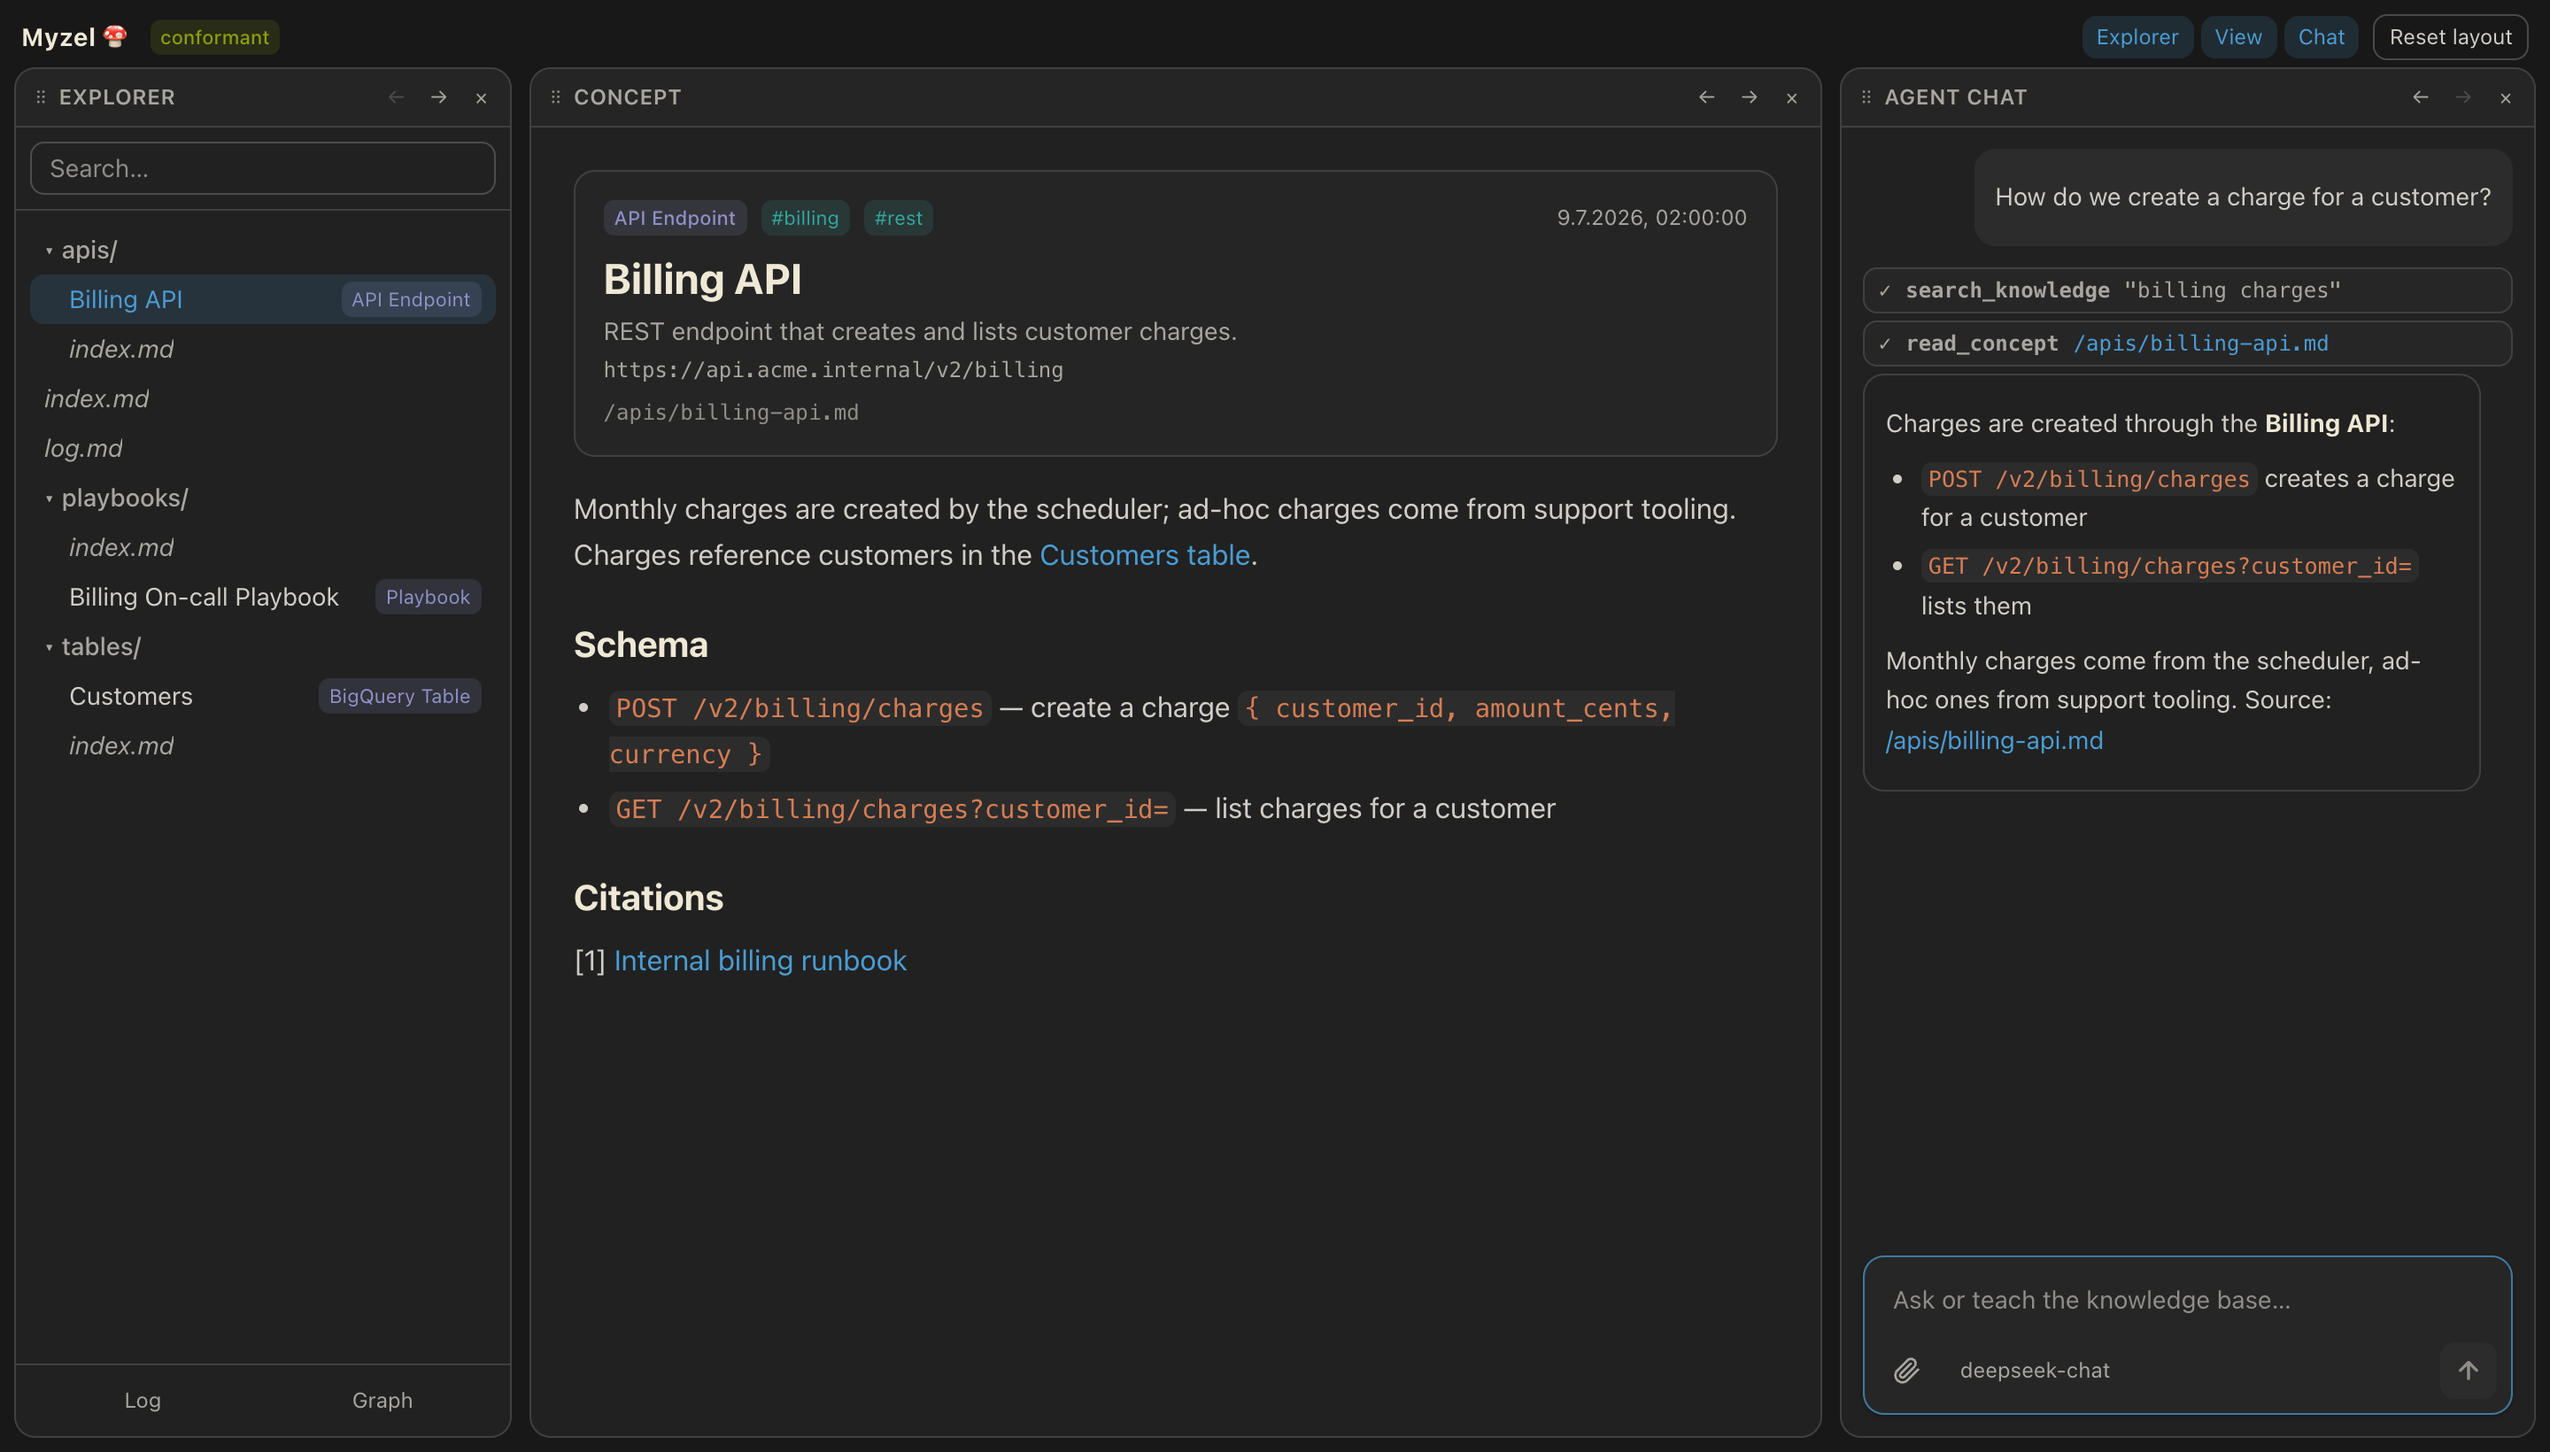
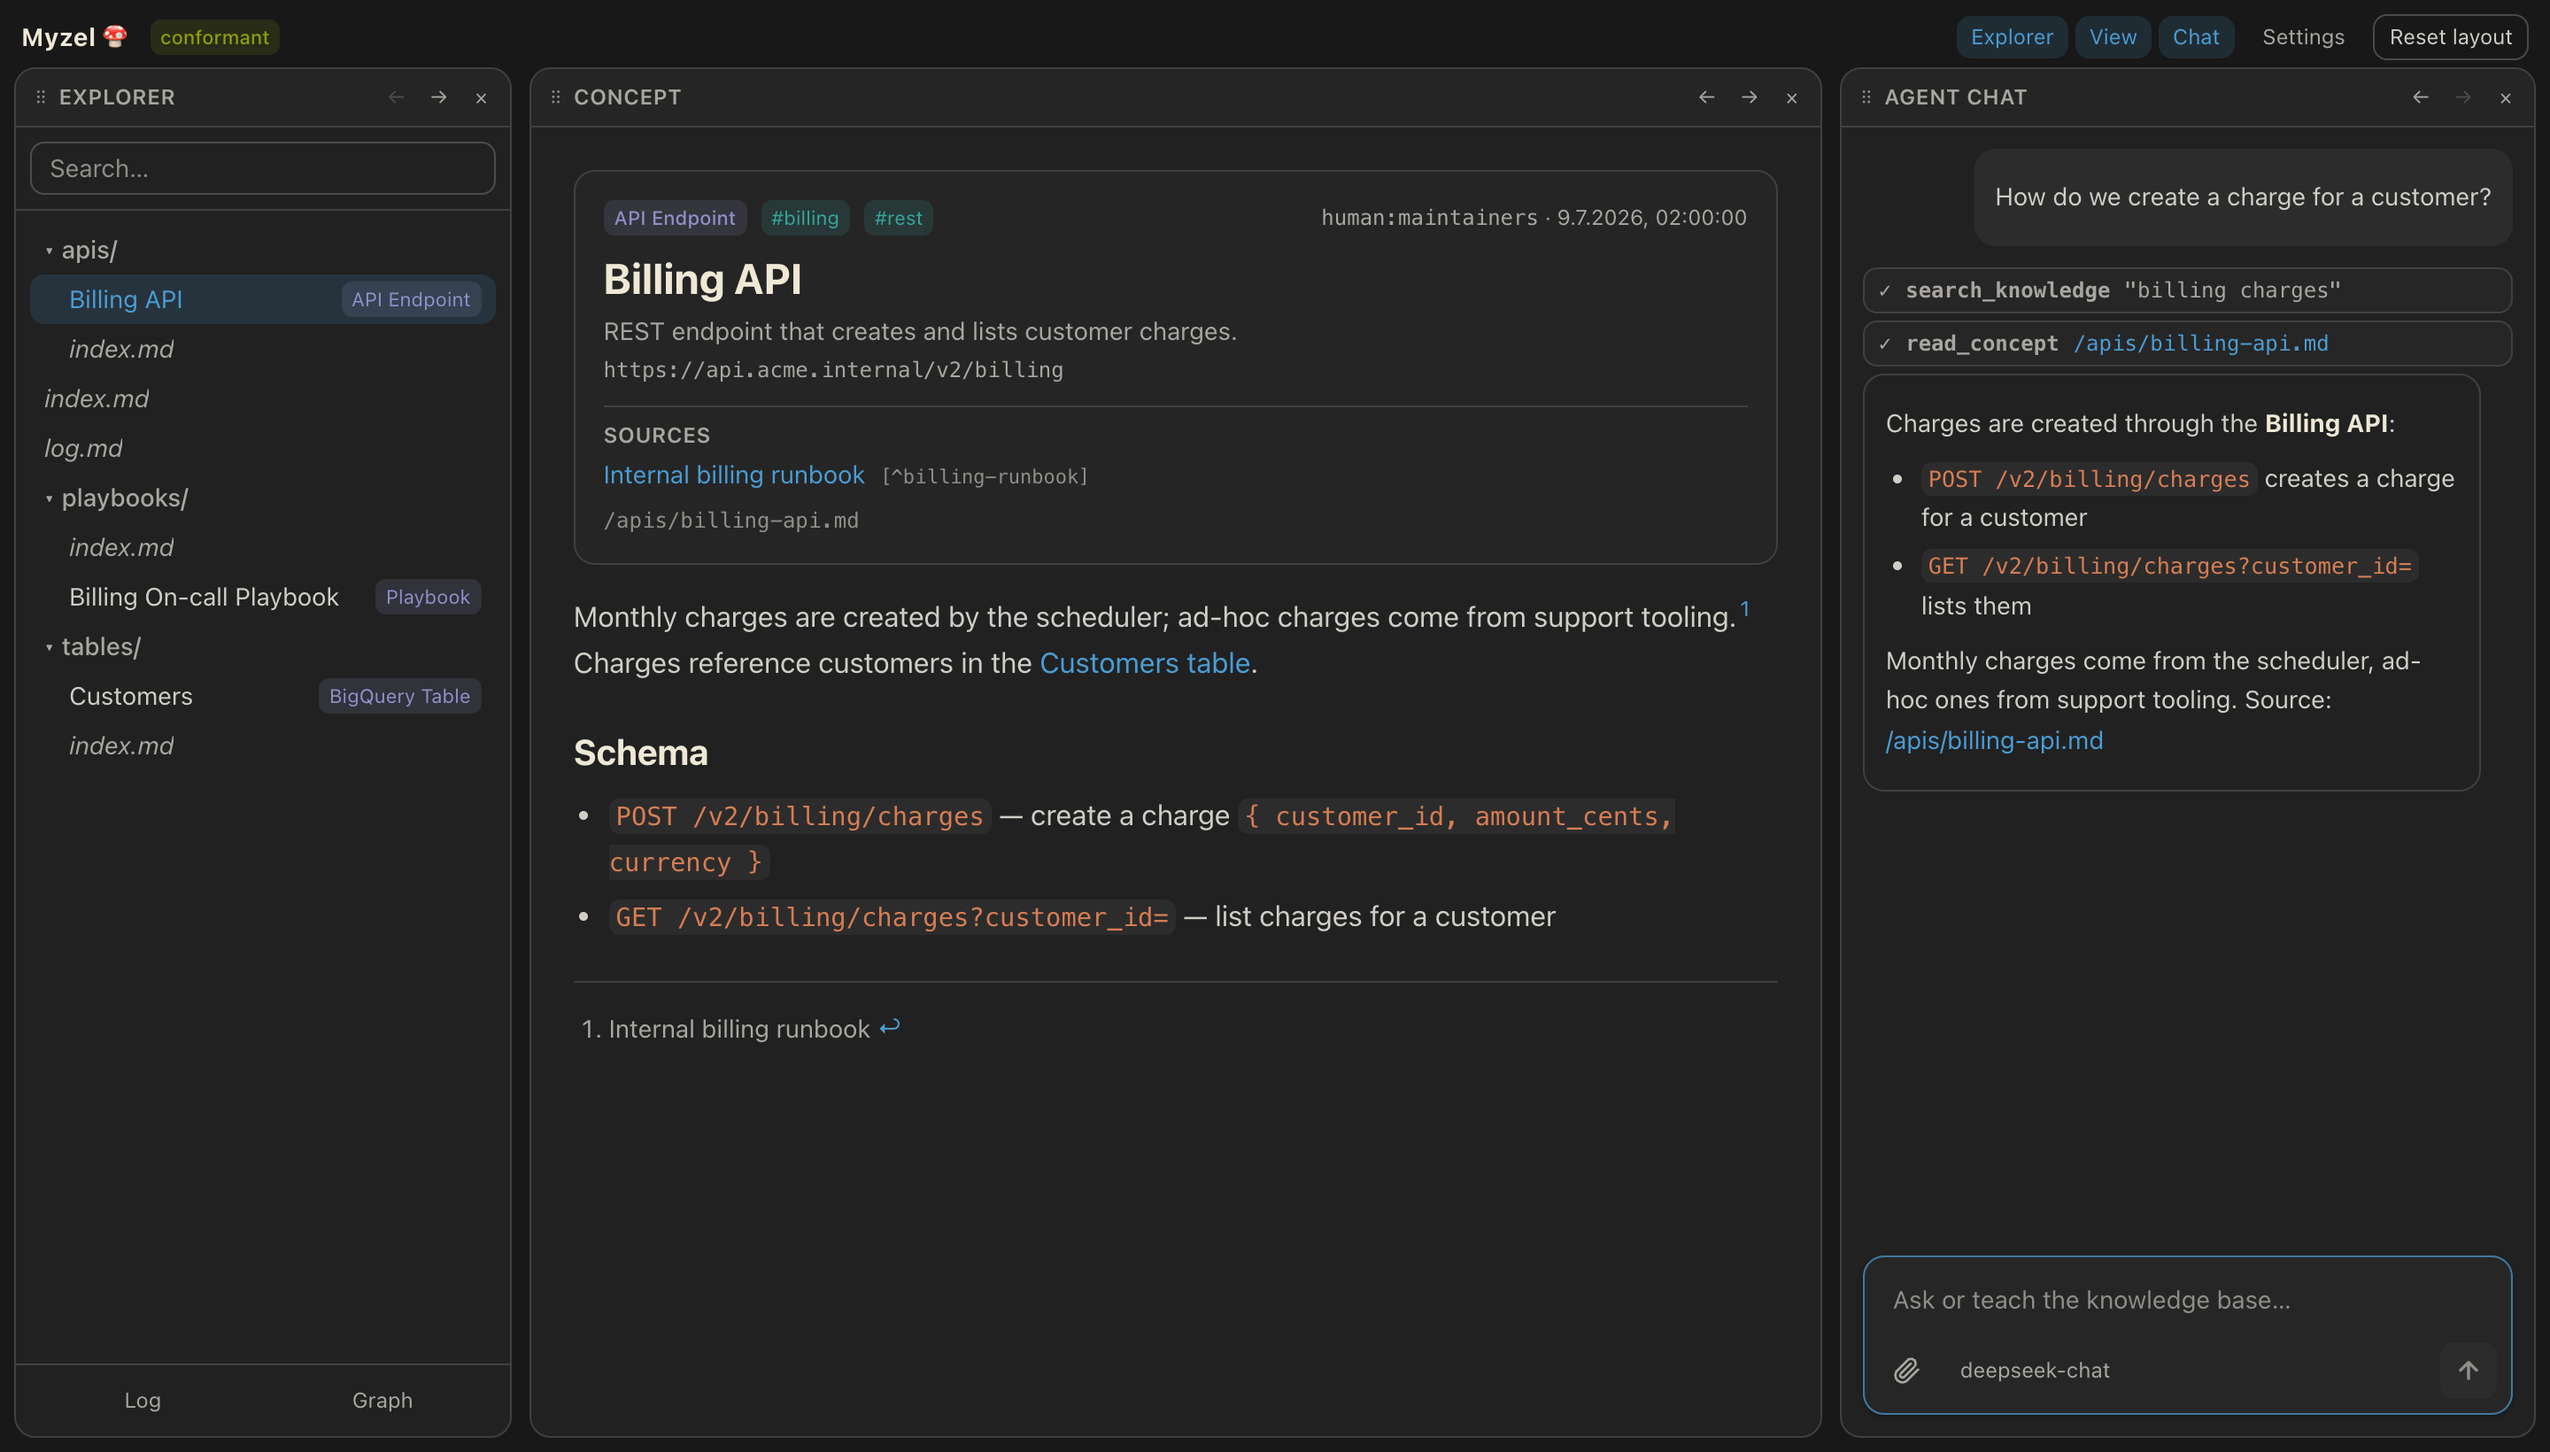
Fixes footnote links in rendered markdown and updates the README screenshot.
Footnotes, which OKF v0.2 uses to attribute claims to sources, jumped
nowhere: remark-rehype and rehype-sanitize both prefixed their ids with
"user-content-", and the link component dropped their id and
data-footnote-* attributes. The sanitizer no longer adds a second
prefix (raw HTML is not rendered, so footnotes are the only ids
markdown produces), and links keep their attributes. The notes now sit
small under a divider, the "Footnotes" heading is visible to screen
readers only, and the back link is drawn as text rather than an emoji.

The README screenshot shows the current UI: the Settings button and a
concept card with its v0.2 sources.

diff --git a/packages/web/src/components/MarkdownRenderer.tsx b/packages/web/src/components/MarkdownRenderer.tsx
@@ -53,6 +53,11 @@ const sanitizeSchema = {
     th: [...(defaultSchema.attributes?.th || []), "className"],
     td: [...(defaultSchema.attributes?.td || []), "className"],
   },
+  // remark-rehype already prefixes the only ids markdown can produce
+  // (footnotes) with "user-content-", hrefs included; prefixing ids a second
+  // time here would leave every footnote link pointing nowhere. Raw HTML is
+  // not parsed, so no other id can reach the page.
+  clobberPrefix: "",
   // A flat list: hast-util-sanitize compares entries as strings, so a nested
   // array silently matches nothing and strips every external link.
   protocols: {
@@ -118,12 +123,19 @@ function highlightCode(highlighter: Highlighter, code: string, language: string)
 
 const LINK_CLASS = "text-blue underline-offset-2 hover:underline";
 
-function Link({ href, children }: React.ComponentProps<"a">) {
+function Link({
+  href,
+  children,
+  node: _node,
+  // Footnote links carry their id and data-footnote-* attributes in here.
+  ...rest
+}: React.ComponentProps<"a"> & { node?: unknown }) {
   const { onNavigate, onNavigateClick } = useContext(RenderContext);
   const resolved = href && onNavigate ? onNavigate(href) : null;
   if (resolved !== null) {
     return (
       <a
+        {...rest}
         href={resolved}
         onClick={(e) => {
           e.preventDefault();
@@ -138,13 +150,13 @@ function Link({ href, children }: React.ComponentProps<"a">) {
   // An in-page anchor stays in the page; anything else leaves the app.
   if (href?.startsWith("#")) {
     return (
-      <a href={href} className={LINK_CLASS}>
+      <a {...rest} href={href} className={LINK_CLASS}>
         {children}
       </a>
     );
   }
   return (
-    <a href={href} target="_blank" rel="noopener noreferrer" className={LINK_CLASS}>
+    <a {...rest} href={href} target="_blank" rel="noopener noreferrer" className={LINK_CLASS}>
       {children}
     </a>
   );

diff --git a/packages/web/test/components.test.tsx b/packages/web/test/components.test.tsx
@@ -40,6 +40,23 @@ describe("LogView", () => {
   });
 });
 
+describe("footnotes", () => {
+  it("links each footnote reference to its note and back (OKF v0.2 per-claim attribution)", async () => {
+    const { container } = render(
+      <MarkdownRenderer>
+        {"Charges settle nightly.[^runbook]\n\n[^runbook]: Billing runbook"}
+      </MarkdownRenderer>
+    );
+    const ref = await screen.findByText("1");
+    const note = container.querySelector(ref.getAttribute("href")!);
+    expect(note).toHaveTextContent("Billing runbook");
+    const back = container.querySelector("[data-footnote-backref]")!;
+    expect(container.querySelector(back.getAttribute("href")!)).toBe(ref);
+    expect(ref).toHaveAttribute("data-footnote-ref");
+    expect(ref).not.toHaveAttribute("target");
+  });
+});
+
 describe("ConceptView", () => {
   it("shows the frontmatter, survives odd values and resolves relative links", async () => {
     const onNavigate = vi.fn();

diff --git a/packages/web/src/index.css b/packages/web/src/index.css
@@ -178,6 +178,25 @@
 .markdown strong {
   @apply text-strong;
 }
+/* GFM footnotes (OKF v0.2 attributes claims to sources with them). */
+.markdown section[data-footnotes] {
+  @apply mt-6 border-t border-line pt-2 text-sm text-muted;
+}
+.markdown section[data-footnotes] ol {
+  @apply list-decimal;
+}
+/* The "Footnotes" heading is for screen readers, as GitHub renders it. */
+.markdown section[data-footnotes] > h2 {
+  @apply sr-only;
+}
+.markdown [data-footnote-ref] {
+  @apply px-0.5;
+}
+/* "↩" would otherwise be drawn as a colour emoji on some systems. */
+.markdown [data-footnote-backref] {
+  font-variant-emoji: text;
+  @apply no-underline;
+}
 
 /*
   Shiki renders both Solarized themes as CSS variables; pick the one matching
